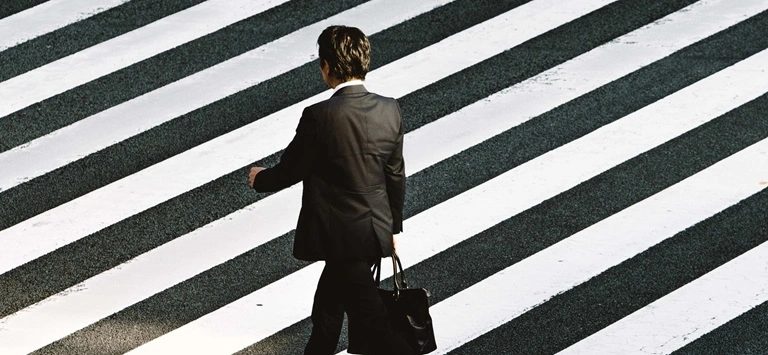
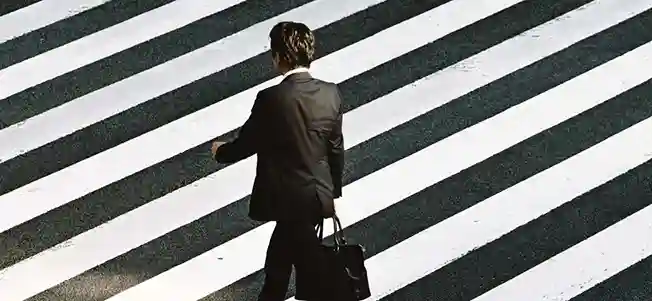
Compréssion des images en webp au max et ajout d'un footer pour les information importantes google avec accord de Nina pour de balises spéciales pour le référencement

diff --git a/index.html b/index.html
@@ -1,229 +1,193 @@
 <!DOCTYPE html>
-<html>
 <html lang="fr">
-
 <head>
-	<meta name="viewport" content="width=device-width, initial-scale=1.0">
 	<meta charset="UTF-8">
-	<meta name="description"
-		content="Photographe professionnelle spécialisée dans les portraits, les mariages et les concerts. Capturant des moments précieux et les rendant immortels.">
-	<meta name="keywords" content="photographe, portraits, mariages, concerts, moments précieux, immortels">
-	<meta name="author" content="Nina Carducci">
-	<meta Copyright="© Nina Carducci">
-	<link rel="stylesheet" href="https://stackpath.bootstrapcdn.com/bootstrap/4.3.1/css/bootstrap.min.css"
-		integrity="sha384-ggOyR0iXCbMQv3Xipma34MD+dH/1fQ784/j6cY/iJTQUOhcWr7x9JvoRxT2MZw1T" crossorigin="anonymous">
-	<link rel="stylesheet" href="https://stackpath.bootstrapcdn.com/bootstrap/4.3.1/css/bootstrap.min.css"
-		integrity="sha384-ggOyR0iXCbMQv3Xipma34MD+dH/1fQ784/j6cY/iJTQUOhcWr7x9JvoRxT2MZw1T" crossorigin="anonymous">
+	<meta name="viewport" content="width=device-width, initial-scale=1.0">
+	<meta name="author" content="Nina Carducci" >
+	<meta name="copyright" content="© Nina Carducci" >
+	<meta name="description" content="Site web de Nina Carducci - photographe" >
+	<title>Nina Carducci - Photographe</title>
+	<link rel="stylesheet" href="./assets/bootstrap/bootstrap.min.css">
 	<link rel="stylesheet" href="./assets/style.css">
 	<link rel="preconnect" href="https://fonts.googleapis.com">
 	<link rel="preconnect" href="https://fonts.gstatic.com" crossorigin>
-	<link
-		href="https://fonts.googleapis.com/css2?family=Inter&family=Spectral:ital,wght@0,400;1,300;1,400;1,800&display=swap"
-		rel="stylesheet">
-	<title>Nina Carducci - Photographe professionnelle</title>
-	<script src="./assets/bootstrap/bootstrap.bundle.js" defer></script>
-	<script src="https://code.jquery.com/jquery-3.4.1.min.js"
-		integrity="sha256-CSXorXvZcTkaix6Yvo6HppcZGetbYMGWSFlBw8HfCJo=" crossorigin="anonymous" defer></script>
-	<script src="./assets/maugallery.js" defer></script>
-	<script src="./assets/scripts.js" defer></script>
+	<link href="https://fonts.googleapis.com/css2?family=Inter&family=Spectral:ital,wght@0,300;0,800;1,300&display=swap" rel="stylesheet">
+	<link rel="icon" type="image/png" href="./assets/favicon.png">
 </head>
-
 <body>
-	<div class="top-header">
-		<h3 class="name">Nina Carducci</h3>
-		<div class="nav">
-			<ul>
-				<li><a href="#about">À propos</a></li>
-				<li><a href="#gallery">Galerie</a></li>
-				<li><a href="#services">Service</a></li>
-				<li><a href="#contact">Contact</a></li>
-				<li><a class="social-link" href="https://www.instagram.com/ninacarducci.photo/?hl=fr" target="_blank"><img
-							src="assets/images/instagram.png" alt="Logo instagram"></a></li>
-			</ul>
-		</div>
+<div class="top-header">
+	<h1 class="name">Nina Carducci</h1>
+	<div class="nav">   
+		<ul>
+			<li><a href="#about">À propos</a></li>
+			<li><a href="#gallery">Galerie</a></li>
+			<li><a href="#services">Service</a></li>
+			<li><a href="#contact">Contact</a></li>
+			<li><a class="social-link" href="https://www.instagram.com/ninacarducci.photo/?hl=fr" target="_blank"><img src="assets/images/instagram.png" alt="instagram"></a></li>
+		</ul>
 	</div>
-	<div id="header">
-		<div id="carouselExampleIndicators" class="carousel slide" data-bs-ride="carousel">
-			<div class="carousel-indicators">
-				<button type="button" data-bs-target="#carouselExampleIndicators" data-bs-slide-to="0" class="active"
-					aria-current="true" aria-label="Slide 1"></button>
-				<button type="button" data-bs-target="#carouselExampleIndicators" data-bs-slide-to="1"
-					aria-label="Slide 2"></button>
-				<button type="button" data-bs-target="#carouselExampleIndicators" data-bs-slide-to="2"
-					aria-label="Slide 3"></button>
-			</div>
-			<div class="carousel-inner">
-				<div class="carousel-item active">
-					<picture>
-						<source srcset="./assets/images/slider/ryoji-iwata-sliderMobile.webp 575w " media="(max-width: 768px)">
-						<img src="./assets/images/slider/ryoji-iwata.webp" class="d-block w-100 "
-							alt="Piéton traversant sur un passage piéton">
-					</picture>
-				</div>
-				<div class="carousel-item">
-					<picture>
-						<source srcset="./assets/images/slider/nicholas-green-sliderMobile_1.webp 575w" media="(max-width: 768px)">
-						<img src="./assets/images/slider/nicholas-green.webp" class="d-block w-100 " alt="Photo de groupe d'amis">
-					</picture>
-				</div>
-				<div class="carousel-item">
-					<picture>
-						<source srcset="./assets/images/slider/mariésDanseSliderMobile_1.webp 575w" media="(max-width: 768px)">
-						<img src="./assets/images/slider/mariésDanse.webp" class="d-block w-100 " alt="Mariés qui dansent">
-					</picture>
-				</div>
-			</div>
-			<button class="carousel-control-prev" type="button" data-bs-target="#carouselExampleIndicators"
-				data-bs-slide="prev">
-				<span class="carousel-control-prev-icon" aria-hidden="true"></span>
-				<span class="visually-hidden">Previous</span>
-			</button>
-			<button class="carousel-control-next" type="button" data-bs-target="#carouselExampleIndicators"
-				data-bs-slide="next">
-				<span class="carousel-control-next-icon" aria-hidden="true"></span>
-				<span class="visually-hidden">Next</span>
-			</button>
+</div>
+<div id="header">
+	<div id="carouselExampleIndicators" class="carousel slide" data-bs-ride="carousel">
+		<div class="carousel-indicators">
+			<button type="button" data-bs-target="#carouselExampleIndicators" data-bs-slide-to="0" class="active" aria-current="true" aria-label="Slide 1"></button>
+			<button type="button" data-bs-target="#carouselExampleIndicators" data-bs-slide-to="1" aria-label="Slide 2"></button>
+			<button type="button" data-bs-target="#carouselExampleIndicators" data-bs-slide-to="2" aria-label="Slide 3"></button>
 		</div>
+		<div class="carousel-inner">
+			<div class="carousel-item active">
+				<picture>
+					<source srcset="./assets/images/slider/ryoji-iwata-sliderMobile.webp" media="(max-width: 768px)">
+					<source srcset="./assets/images/slider/ryoji-iwata.webp" media="(min-width: 769px)">
+					<img src="./assets/images/slider/ryoji-iwata.webp" class="d-block w-100" alt="ryoji-iwata">
+				</picture>
+			</div>
+			<div class="carousel-item">
+				<picture>
+					<source srcset="./assets/images/slider/nicholas-green-sliderMobile.webp" media="(max-width: 768px)">
+					<source srcset="./assets/images/slider/nicholas-green.webp" media="(min-width: 769px)">
+					<img src="./assets/images/slider/nicholas-green.webp" class="d-block w-100" alt="nicholas-green">
+				</picture>
+			</div>
+			<div class="carousel-item">
+				<picture>
+					<source srcset="./assets/images/slider/mariésDanseSliderMobile.webp" media="(max-width: 768px)">
+					<source srcset="./assets/images/slider/mariésDanse.webp" media="(min-width: 769px)">
+					<img src="./assets/images/slider/mariésDanse.webp" class="d-block w-100" alt="edward-cisneros">
+				</picture>
+			</div>
+		</div>
+		<button class="carousel-control-prev" type="button" data-bs-target="#carouselExampleIndicators" data-bs-slide="prev">
+			<span class="carousel-control-prev-icon" aria-hidden="true"></span>
+			<span class="visually-hidden">Previous</span>
+		</button>
+		<button class="carousel-control-next" type="button" data-bs-target="#carouselExampleIndicators" data-bs-slide="next">
+			<span class="carousel-control-next-icon" aria-hidden="true"></span>
+			<span class="visually-hidden">Next</span>
+		</button>
 	</div>
-	<div id="about">
-		<div class="picture left">
-			<img src="./assets/images/nina.webp" alt="Portrait de Nina">
-		</div>
-		<div id="about-me">
-			<h3 class="about-me__title">A propos de moi</h3>
-			<h4 class="about-me__introduction">Devenir photographe était pour moi une évidence. Comme si j’y étais prédestiné.
-				Saisir un moment, une émotion, une situation, un endroit, une lumière et les rendre immortels, voilà ce qui me
-				fait vibrer.</h4>
-			<p>Nous passons notre vie à chercher le bonheur, et lorsque nous y touchons, nous n’avons qu’une envie : le figer
-				au travers de photographies pour le savourer avec les personnes qui sont importantes à nos yeux, ou le partager
-				au plus grand nombre.
-				C’est ce que je vous propose : saisir ces merveilleux moments au travers de mon regard, mon approche, ma
-				technique. Rendre ces moments immortels, afin que vous puissiez y puiser de l’amour, du bonheur, de la tendresse
-				et de lumière à chaque fois que vous poserez les yeux sur vos photos.</p>
-		</div>
+</div>
+<div id="about">
+	<div class="picture left">
+		<img src="./assets/images/nina.webp" alt="Nina Carducci">
 	</div>
-	<div id="gallery">
-		<h3 class="title">Portfolio</h3>
-		<div class="container py-3">
-			<div class="gallery" style="display: none">
-				<img data-gallery-tag="Concert" class="gallery-item" src="./assets/images/gallery/concerts/aaron-paul.jpg"
-					alt=" Concert aaron-paul" />
-				<img data-gallery-tag="Entreprises" class="gallery-item"
-					src="./assets/images/gallery/entreprise/ali-morshedlou.jpg" alt=" Entrepreneur Ali" />
-				<img data-gallery-tag="Entreprises" class="gallery-item"
-					src="./assets/images/gallery/entreprise/jason-goodman.jpg" alt="Salariés chez Goodman" />
-				<img data-gallery-tag="Mariages" class="gallery-item" src="./assets/images/gallery/mariage/hannah-busing.webp"
-					alt="Mariage Hannah" />
-				<img data-gallery-tag="Portrait" class="gallery-item" src="./assets/images/gallery/portraits/ade-tunji.jpg"
-					alt="Portrait de Ade" />
-				<img data-gallery-tag="Mariages" class="gallery-item" src="./assets/images/gallery/mariage/MariagePalmier.jpg"
-					alt="Mariés sous un palmier" />
-				<img data-gallery-tag="Portrait" class="gallery-item"
-					src="./assets/images/gallery/portraits/nino-van-prattenburg.jpg" alt="Portrait de Nino" />
-				<img data-gallery-tag="Concert" class="gallery-item" src="./assets/images/gallery/concerts/austin-neill.webp"
-					alt="Concert de Austin-Neill" />
-				<img data-gallery-tag="Entreprises" class="gallery-item"
-					src="./assets/images/gallery/entreprise/mateus-campos.jpg" alt=" Salariée travaillant sur un ordinateur " />
-			</div>
-		</div>
-		<div class="quote">
-			<figure>
-				<blockquote>
-					<h1 class="quote__text">Un portrait n’est pas une ressemblance. Dès lors qu’une émotion ou qu’un fait est
-						traduit en photo, il cesse d’être un fait pour devenir une opinion. L’inexactitude n’existe pas en
-						photographie. Toutes les photos sont exactes. Aucune d’elles n’est la vérité.</h1>
-				</blockquote>
-				<figcaption class="quote__author">- Richard Avedon</figcaption>
-			</figure>
-		</div>
+	<div id="about-me">
+		<h2 class="about-me__title">A propos de moi</h2>
+		<h3 class="about-me__introduction">Devenir photographe était pour moi une évidence. Comme si j’y étais prédestiné. Saisir un moment, une émotion, une situation, un endroit, une lumière et les rendre immortels, voilà ce qui me fait vibrer.</h3>
+		<p>Nous passons notre vie à chercher le bonheur, et lorsque nous y touchons, nous n’avons qu’une envie : le figer au travers de photographies pour le savourer avec les personnes qui sont importantes à nos yeux, ou le partager au plus grand nombre.
+			C’est ce que je vous propose : saisir ces merveilleux moments au travers de mon regard, mon approche, ma technique. Rendre ces moments immortels, afin que vous puissiez y puiser de l’amour, du bonheur, de la tendresse et de lumière à chaque fois que vous poserez les yeux sur vos photos.</p>
 	</div>
-	<div id="services">
-		<h2 class="title">Mes services</h2>
-		<div class="container">
-			<div class="service">
-				<div class="service__description">
-					<h3>Shooting photo</h3>
-					<p>Pour capturer vos moments les plus précieux et garder un souvenir impérissable. Je me déplace en
-						Île-de-France pour réaliser vos photos</p>
-				</div>
-				<div class="service__price">
-					<h4>350€/demi journée</h4>
-					<span>Matériel, déplacement inclus</span>
-				</div>
-
-			</div>
-			<div class="service">
-				<div class="service__description">
-					<h3>Retouches</h3>
-					<p>Vous souhaitez retoucher vos photos pour un résultat professionnel ? Bénéficier d’un rendu optimal pour vos
-						publications</p>
-				</div>
-				<div class="service__price">
-					<h4>50€/photo</h4>
-					<span>2 AR par photo</span>
-				</div>
-			</div>
-			<div class="service">
-				<div class="service__description">
-					<h3>Album photos</h3>
-					<p>Partagez avec vos proches et vos clients les photos des moments partagés ensemble à travers un album photo
-						personnalisé</p>
-				</div>
-				<div class="service__price">
-					<h4>400€ album A4</h4>
-					<span>30 pages recto/verso</span>
-				</div>
-			</div>
+</div>
+<div id="gallery">
+	<h2 class="title">Portfolio</h2>
+	<div class="container py-3">
+		<div class="gallery" style="display: none">
+			<img data-gallery-tag="Concert" class="gallery-item" src="./assets/images/gallery/concerts/aaron-paul.webp" alt="aaron-paul">
+			<img data-gallery-tag="Entreprises" class="gallery-item" src="./assets/images/gallery/entreprise/ali-morshedlou.webp" alt="ali-morshedlou">
+			<img data-gallery-tag="Entreprises" class="gallery-item" src="./assets/images/gallery/entreprise/jason-goodman.webp" alt="jason-goodman">
+			<img data-gallery-tag="Mariages" class="gallery-item" src="./assets/images/gallery/mariage/hannah.webp" alt="hannah-busing">
+			<img data-gallery-tag="Portrait" class="gallery-item" src="./assets/images/gallery/portraits/ade-tunji.webp" alt="ade-tunji">
+			<img data-gallery-tag="Mariages" class="gallery-item" src="./assets/images/gallery/mariage/MariagePalmier.webp" alt="jakob-owens">
+			<img data-gallery-tag="Portrait" class="gallery-item" src="./assets/images/gallery/portraits/nino-van-prattenburg.webp" alt="nino-van-prattenburg">
+			<img data-gallery-tag="Concert" class="gallery-item" src="./assets/images/gallery/concerts/austin-neill.webp" alt="austin-neill">
+			<img data-gallery-tag="Entreprises" class="gallery-item" src="./assets/images/gallery/entreprise/mateus-campos.webp" alt="mateus-campos-felipe">
 		</div>
 	</div>
 	<div class="quote">
 		<figure>
 			<blockquote>
-				<h1 class="quote__text">De manière inconsciente, je crois, je guette un regard, une expression, des traits ou
-					une nostalgie capable de résumer ou plus exactement de révéler une vie</h1>
+				<h3 class="quote__text">Un portrait n’est pas une ressemblance. Dès lors qu’une émotion ou qu’un fait est traduit en photo, il cesse d’être un fait pour devenir une opinion. L’inexactitude n’existe pas en photographie. Toutes les photos sont exactes. Aucune d’elles n’est la vérité.</h3>
 			</blockquote>
 			<figcaption class="quote__author">- Richard Avedon</figcaption>
 		</figure>
 	</div>
-	<div id="contact">
-		<div class="container">
-			<div class="form-container">
-				<h2>Une question ? Une demande de devis ?</h2>
-				<p> N’hésitez pas à m’écrire ! Je vous répondrais en moins de 24 heures</p>
-				<form action="" method="post">
-					<label for="nom">Nom</label>
-					<input type="text" name="nom" id="nom">
-					<label for="email">Email</label>
-					<input type="email" name="email" id="email">
-					<label for="message">Message</label>
-					<textarea name="message" id="message" cols="30" rows="10"></textarea>
-					<input type="submit" value="Envoyer" />
-				</form>
+</div>
+<div id="services">
+	<h2 class="title">Mes services</h2>
+	<div class="container">
+		<div class="service">
+			<div class="service__description">
+				<h2>Shooting photo</h2>
+				<p>Pour capturer vos moments les plus précieux et garder un souvenir impérissable. Je me déplace en Île-de-France pour réaliser vos photos</p>
 			</div>
-			<div class="picture right">
-				<img src="./assets/images/camera.webp" alt="Photo d'une Caméra Noire">
+			<div class="service__price">
+				<h3>350€/demi journée</h3>
+				<span>Matériel, déplacement inclus</span>
+			</div>
+
+		</div>
+		<div class="service">
+			<div class="service__description">
+				<h2>Retouches</h2>
+				<p>Vous souhaitez retoucher vos photos pour un résultat professionnel ? Bénéficier d’un rendu optimal pour vos publications</p>
+			</div>
+			<div class="service__price">
+				<h3>50€/photo</h3>
+				<span>2 AR par photo</span>
+			</div>
+		</div>
+		<div class="service">
+			<div class="service__description">
+				<h2>Album photos</h2>
+				<p>Partagez avec vos proches et vos clients les photos des moments partagés ensemble à travers un album photo personnalisé</p>
+			</div>
+			<div class="service__price">
+				<h3>400€ album A4</h3>
+				<span>30 pages recto/verso</span>
 			</div>
 		</div>
 	</div>
-	<footer>
-		<div itemscope itemtype="http://schema.org/PhotographieStudio">
-			<!-- Adresse -->
-			<address itemprop="address" itemscope itemtype="http://schema.org/PostalAddress">
-				<span itemprop="streetAddress">68 avenue Alsace-Lorraine</span>,
-				<span itemprop="addressLocality">Bordeaux</span>,
-				<span itemprop="postalCode">33200</span>
-			</address>
-
-			<!-- Numéro de téléphone -->
-			<p itemprop="telephone">Téléphone : <a href="tel:0556677889">05 56 67 78 89</a></p>
-
-			<!-- Horaires d'ouverture -->
-			<p itemprop="openingHours">Horaires d'ouverture :
-				<meta itemprop="dayOfWeek" content="Monday">Lundi -
-				<meta itemprop="dayOfWeek" content="Friday">Vendredi de 10h à 19h.
-			</p>
+</div>
+<div class="quote">
+	<figure>
+		<blockquote>
+			<h1 class="quote__text">De manière inconsciente, je crois, je guette un regard, une expression, des traits ou une nostalgie capable de résumer ou plus exactement de révéler une vie</h1>
+		</blockquote>
+		<figcaption class="quote__author">- Richard Avedon</figcaption>
+	</figure>
+</div>
+<div id="contact">
+	<div class="container">
+		<div class="form-container">
+			<h2>Une question ? Une demande de devis ?</h2>
+			<p> N’hésitez pas à m’écrire ! Je vous répondrais en moins de 24 heures</p>
+			<form method="post" >
+				<label for="nom">Nom</label>
+				<input type="text" name="nom" id="nom" required placeholder="Entrez votre nom">
+				<label for="email">Email</label>
+				<input type="email" name="email" id="email" required placeholder="exemple@domaine.com" pattern="[a-z0-9._%+-]+@[a-z0-9.-]+\.[a-z]{2,}$" >
+				<label for="message">Message</label>
+				<textarea name="message" id="message" cols="30" rows="10" required placeholder="Votre message ici"></textarea>
+				<input type="submit" value="Envoyer">
+			</form>
 		</div>
-	</footer>
-</body>
+		<div class="picture right">
+			<img src="./assets/images/camera.webp" alt="camera">
+		</div>
+	</div>
+</div>
+<footer>
+	<div itemscope itemtype="http://schema.org/PhotographieStudio">
+		<!-- Adresse -->
+		<address itemprop="address" itemscope itemtype="http://schema.org/PostalAddress">
+			<span itemprop="streetAddress">68 avenue Alsace-Lorraine</span>,
+			<span itemprop="addressLocality">Bordeaux</span>,
+			<span itemprop="postalCode">33200</span>
+		</address>
 
+		<!-- Numéro de téléphone -->
+		<p itemprop="telephone">Téléphone : <a href="tel:0556677889">05 56 67 78 89</a></p>
+
+		<!-- Horaires d'ouverture -->
+		<p itemprop="openingHours">Horaires d'ouverture :
+			<meta itemprop="dayOfWeek" content="Monday">Lundi -
+			<meta itemprop="dayOfWeek" content="Friday">Vendredi de 10h à 19h.
+		</p>
+	</div>
+</footer>
+	<script src="./assets/bootstrap/bootstrap.bundle.min.js"></script>
+	<script src="https://code.jquery.com/jquery-3.4.1.min.js" integrity="sha256-CSXorXvZcTkaix6Yvo6HppcZGetbYMGWSFlBw8HfCJo=" crossorigin="anonymous"></script>
+	<script src="./assets/maugallery.js"></script>
+	<script src="./assets/scripts.js"></script>
+</body>
 </html>
